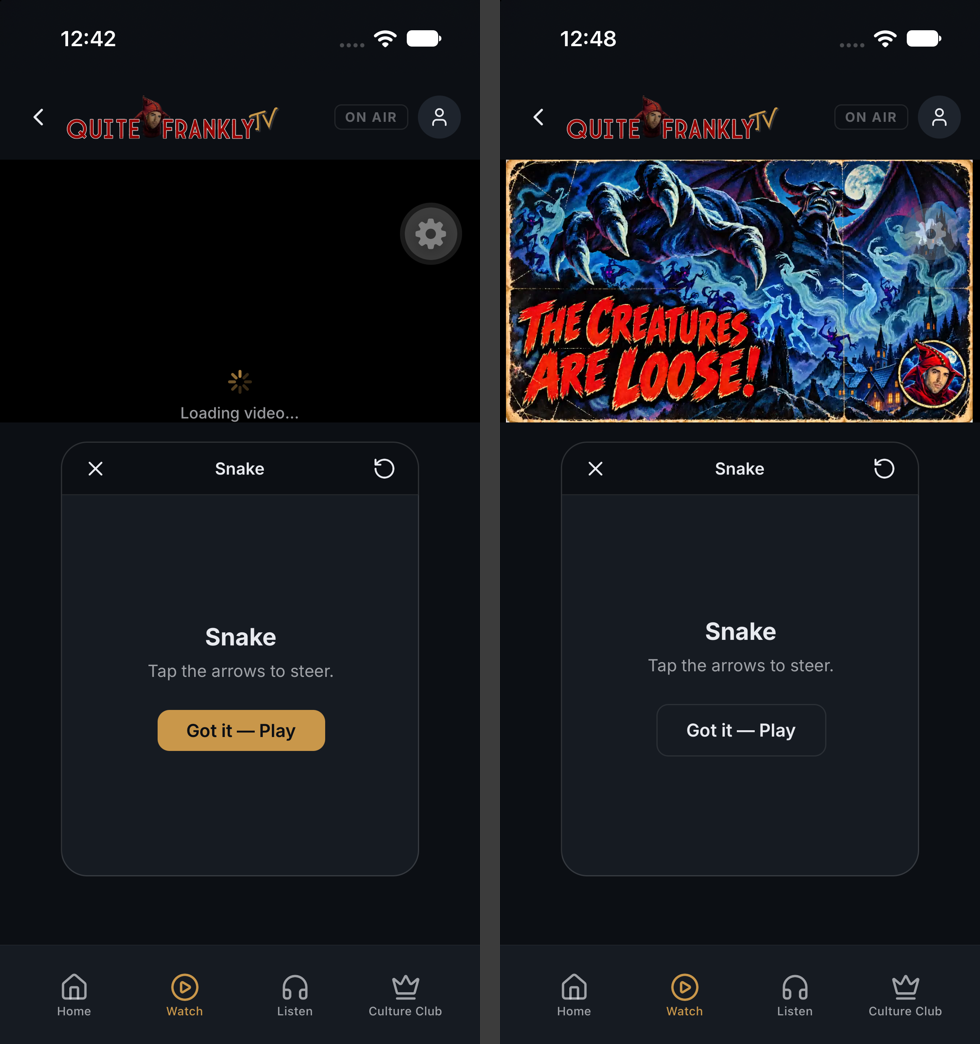
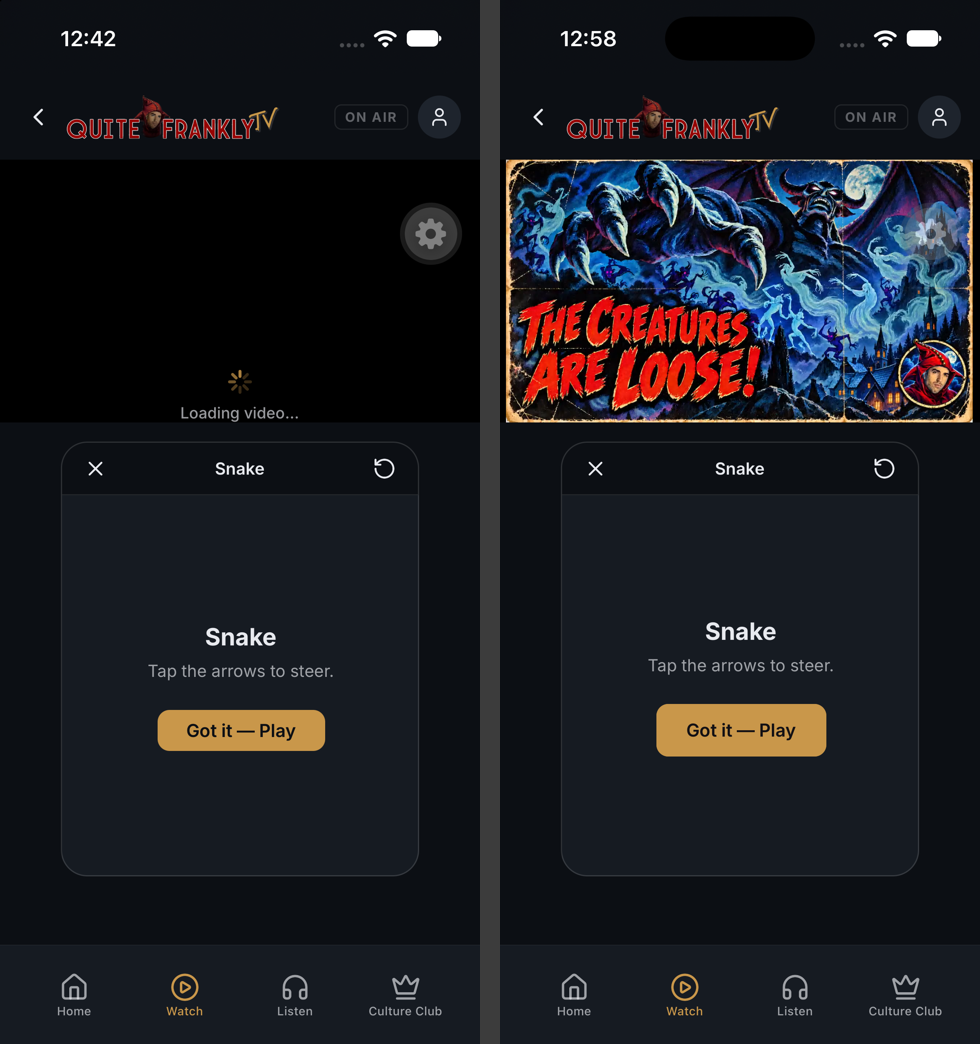
style: game window 'Got it, Play' stays the gold-filled button

Changed region(s): [[0.6429, 0.6743, 0.8571, 0.7356], [0.5816, 0.0307, 0.6122, 0.0613]]

diff --git a/src/components/games/GameWindow.js b/src/components/games/GameWindow.js
@@ -179,10 +179,16 @@ const styles = StyleSheet.create({
     fontSize: fontSize.md,
     textAlign: 'center',
   },
+  // Stays the gold call to action: the `button` preset (44 high) filled with accentGold, the same gold fill + dark text as tagSolid / segButtonSelected (there is no gold-filled button preset).
   splashButton: {
     ...button,
+    backgroundColor: colors.accentGold,
+    borderColor: colors.accentGold,
     marginTop: spacing.md,
     paddingHorizontal: spacing.lg,
   },
-  splashButtonText: buttonText,
+  splashButtonText: {
+    ...buttonText,
+    color: colors.textOnGold,
+  },
 });
